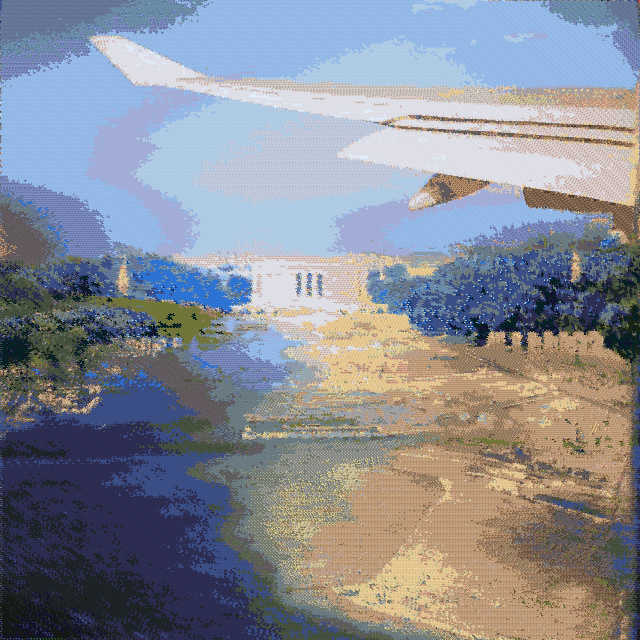
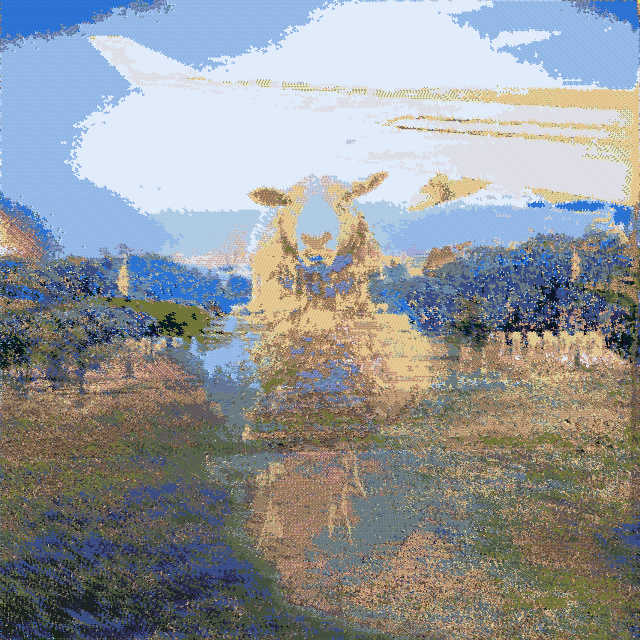
0076 - node --harmony /index.js

diff --git a/sketches/0076/index.js b/sketches/0076/index.js
@@ -132,7 +132,7 @@ co(function*(){
 		return nextColor;
 	}
 
-	var imgRed = yield getBasePixels(getPath(others[2]));
+	var imgRed = yield getBasePixels(getPath(others[0]));
 	var imgGreen = yield getBasePixels(getPath(others[1]));
 	var imgBlue = yield getBasePixels(getPath(others[2]));
 	var newImg = yield getBasePixels(getPath(others[0]));
